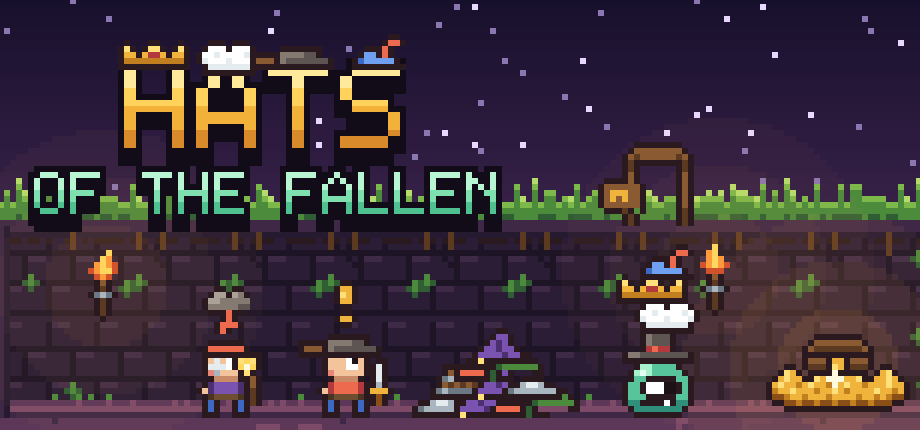
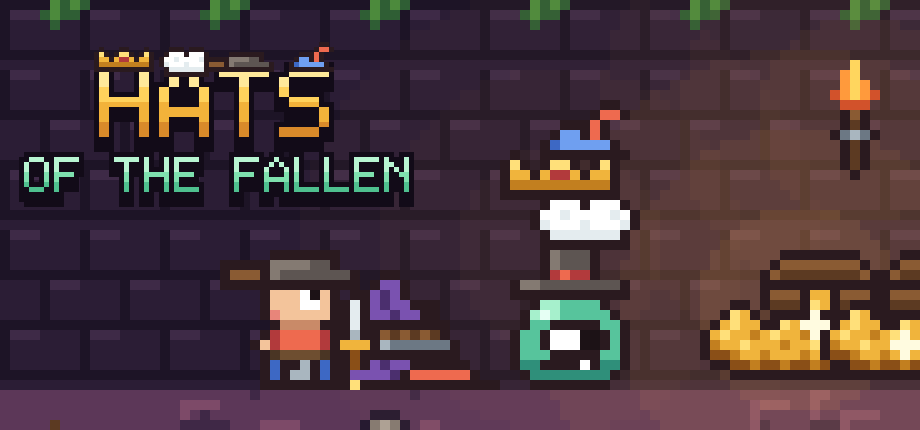
Mila: header capsule v2, Gloop met hoedentoren als middelpunt
Claude-Session: https://claude.ai/code/session_01RMWUyfvRPtBE1aTV8X21fL

diff --git a/ontwerp/steam/winkelpagina/bron/maak_capsules.py b/ontwerp/steam/winkelpagina/bron/maak_capsules.py
@@ -154,28 +154,26 @@ def scene(W, H, grond_y, kamer, items):
 
 def schaal(im, s): return im.resize((im.width * s, im.height * s), Image.NEAREST)
 
-# ---------- header 920 x 430 (schaal 6: 154 x 76 spelpixels, boven 20 px weg) ----------
+# ---------- header 920 x 430 v2: scene op schaal 10 (92 x 43 spelpixels), logo erop op schaal 6 ----------
 def header():
-    W, H, S = 154, 76, 6
-    gy = 34
-    y0 = gy + 8
-    vloer = y0 + 32
-    kamer = [(kx, r) for kx in range(0, 10) for r in (0, 1)]
-    def dingen(im):
-        im = gloed(im, 18, y0 + 10, .45); im.alpha_composite(cel(FAKKEL, 1, 8, 12), (14, y0 + 4))
-        im = gloed(im, 140, vloer - 8, .8); im = gloed(im, 120, y0 + 8, .4)
-        im.alpha_composite(cel(FAKKEL, 2, 8, 12), (116, y0 + 3))
-        im.alpha_composite(cel(SCHAT, 1, 24, 16), (128, vloer - 16))
-        berg(im, 104, vloer, [0, 1, 3, 2, 6, 1, 0, 3, 2, 1])            # maat 3: 10 zichtbaar
-        gloop_met_toren(im, 110, vloer, [7, 5, 4, 9])                    # hoge hoed, koksmuts, kroon, veermuts
-        held(im, 50, vloer, 0, 8, wapen=0, teken=1)                       # held met een pan op, "!"
-        held(im, 30, vloer, 2, 3, wapen=1, teken=0, litteken=True)        # terugkomer met wrok
-        return im
-    im = scene(W, H, gy, kamer, [dingen])
-    lg = logo(2)
-    im.alpha_composite(lg, (4, 4))
-    im.alpha_composite(ING, (100, gy - 6))
-    return schaal(im, S).crop((2, 26, 922, 456))
+    W, H, S = 92, 43, 10
+    vloer = 39
+    im = Image.new("RGBA", (W, H), (0x1d, 0x14, 0x26, 255))
+    for kx in range(W // 16 + 1):                       # achterwand van de schatkamer (gang-tegels, open)
+        for ry in range(3):
+            im.alpha_composite(cel(TEG, 1 if ry == 0 else 0, rij=1), (kx * 16, vloer - 48 + ry * 16))
+        im.alpha_composite(cel(TEG, (kx * 3) % 8, rij=0), (kx * 16, vloer))
+    im = gloed(im, 80, vloer - 8, .9); im = gloed(im, 56, vloer - 14, .35); im = gloed(im, 86, 12, .5)
+    im.alpha_composite(cel(FAKKEL, 2, 8, 12), (82, 6))
+    im.alpha_composite(cel(SCHAT, 1, 24, 16), (70, vloer - 16))
+    im.alpha_composite(cel(SCHAT, 3, 24, 16), (82, vloer - 16))
+    berg(im, 56, vloer, [0, 1, 3, 2, 6, 1])                     # maat 2: 6 hoeden
+    gloop_met_toren(im, 57, vloer, [7, 5, 4, 9])                # hoge hoed, koksmuts, kroon, veermuts
+    held(im, 22, vloer, 0, 8, wapen=0)                         # nieuwe held met een pan op, kijkt naar Gloop
+    im = schaal(im, S)
+    lg = schaal(logo(2), 5)
+    im.alpha_composite(lg, (14, 12))
+    return im
 
 # ---------- klein 462 x 174 (schaal 4: 116 x 44, rand weg) ----------
 def klein():
@@ -184,8 +182,8 @@ def klein():
     lucht(im, H)
     for kx in range(W // 16 + 1):
         im.alpha_composite(cel(TEG, (kx * 5) % 8, rij=0), (kx * 16, H - 5))
-    im = gloed(im, 100, H - 10, .7)
-    gloop_met_toren(im, 101, H - 4, [7, 5, 4])
+    im = gloed(im, 99, H - 12, .8)
+    gloop_met_toren(im, 99, H - 5, [7, 5, 4, 9])
     lg = logo(2, met_hoeden=True)
     im.alpha_composite(lg, (1, (H - lg.height) // 2))
     return schaal(im, S).crop((1, 1, 463, 175))

diff --git a/ontwerp/steam/winkelpagina/plan.md b/ontwerp/steam/winkelpagina/plan.md
@@ -35,8 +35,8 @@ Bron: `partner.steamgames.com/doc/store/assets/standard`, `.../libraryassets`, `
 ## 4. Stand per bestand
 | Bestand | Stand | Wat nog |
 |---|---|---|
-| `header-920x430.png` | v1 | logo leest sterk, ook verkleind naar 292 breed (GEZIEN). **Te zwak: Gloop met zijn toren is te klein en de hoedenberg leest als puin.** v2: Gloop en toren 2x zo groot als ingezoomd middelpunt (eerlijk: zelfde tekening, hele schaal), minder dingen, één bange held met een pan. |
-| `klein-462x174.png` | v1 | op 120 x 45 lezen HATS, de kroon en OF THE FALLEN (GEZIEN). Gloop rechts valt weg: v2 alleen het logo met de hoeden, of Gloop groter in plaats van de lucht. |
+| `header-920x430.png` | v2 | v1 (scene op schaal 6) afgewezen: Gloop en toren te klein, berg leek puin. v2: scene op schaal 10, **Gloop met 4 hoeden is het middelpunt**, een nieuwe held met een pan kijkt naar hem, schat met gloed rechts, logo links boven. Verkleind naar 292 breed lezen logo en toren nog (GEZIEN). Nog: de achterwand bovenaan (mos-rij) is half afgesneden; de hoedenberg links van Gloop mag netter. |
+| `klein-462x174.png` | v1 | op 120 x 45 en 184 x 69 lezen HATS, de kroon en OF THE FALLEN (GEZIEN); Gloop met toren rechts is klein maar herkenbaar. |
 | main, vertical, library, hero, logo | nog niet | uit dezelfde maker zodra header v2 staat |
 | 5 schermafbeeldingen 1920 x 1080 | nog niet | van Olaf uit de echte build (strook op 160 px op een rustig bureaublad, plus een ingezoomd stuk ernaast), zie stijl.md punt 5 |
 | trailer 30 tot 60 s | nog niet | eerste 3 s: een held loopt binnen, Gloop eet hem, zijn hoed vliegt op de toren. Opname van de demo-modus van Olaf |
